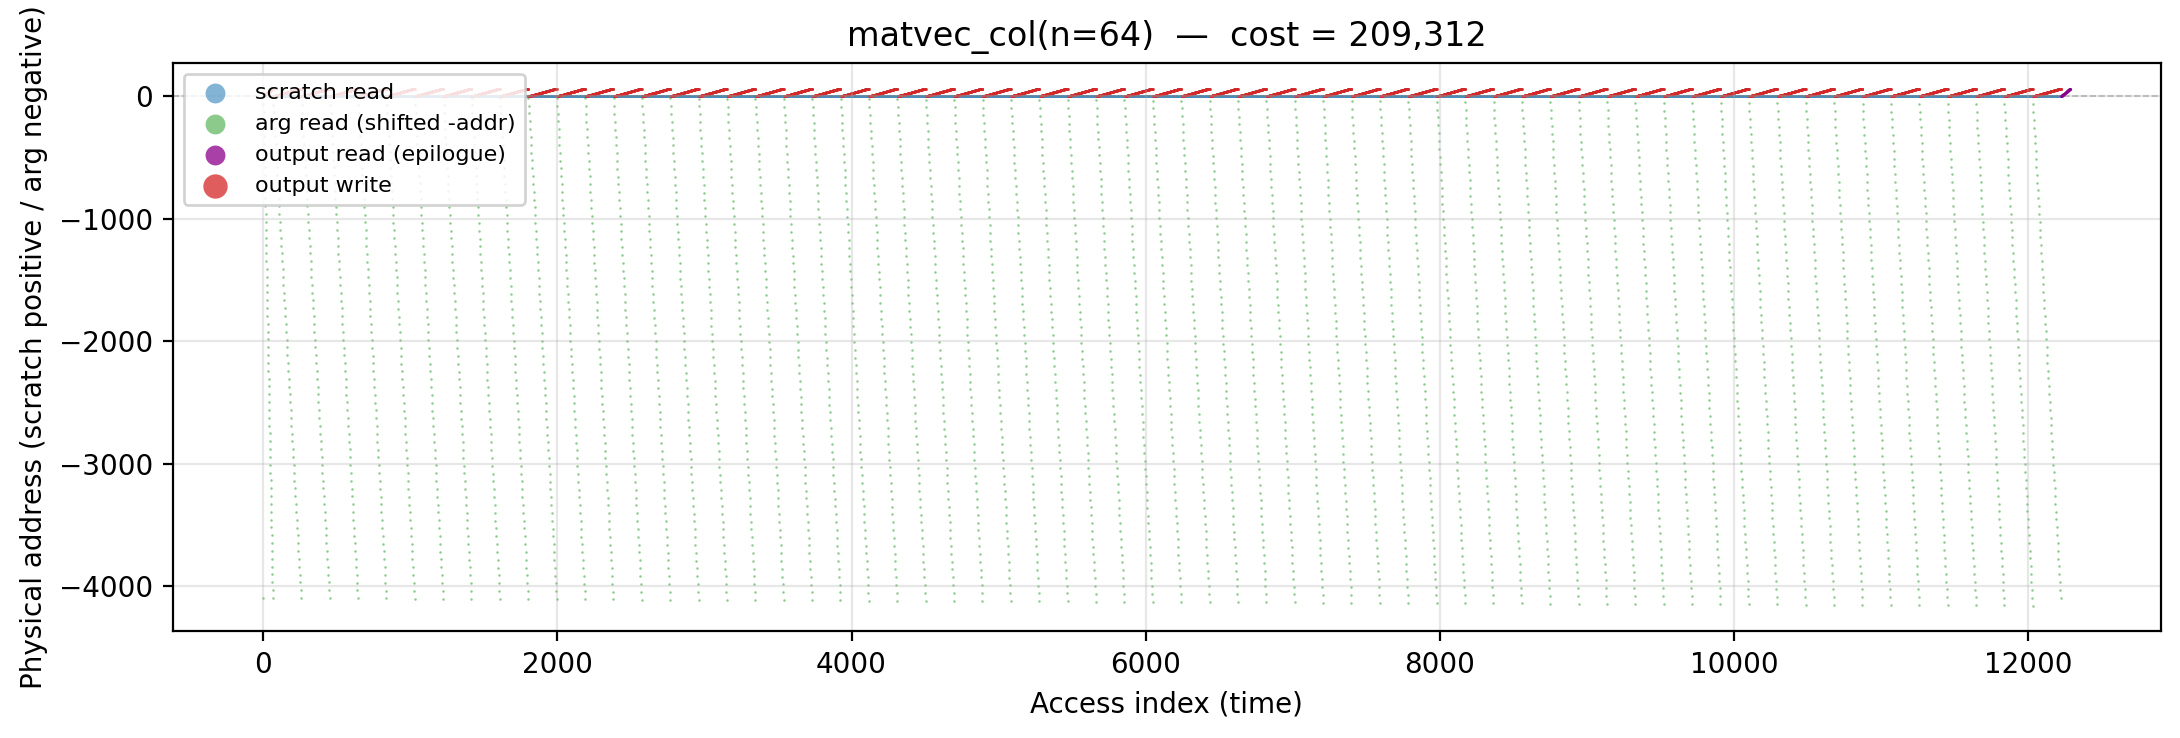
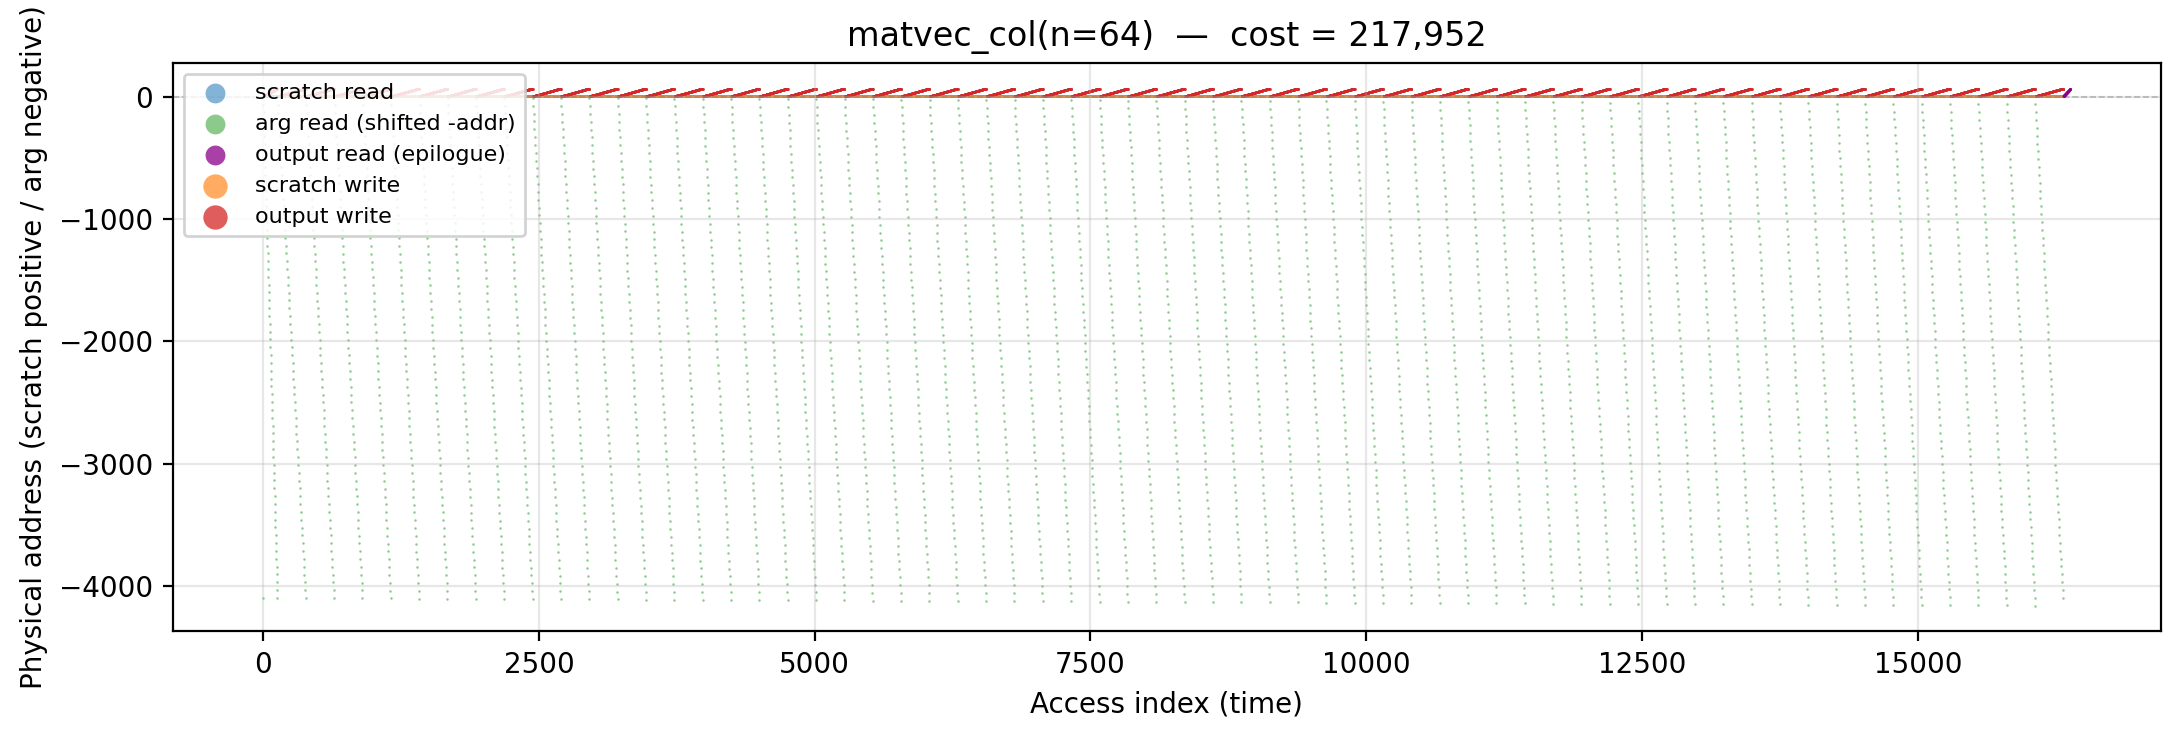
grid: DSL refactor round 2 — 5 more ports + exposed matvec_col bug
## DSL improvements

manual_dsl: auto-promotion on first arg-cell read REMOVED — many
algorithms read each arg cell exactly once (matvec_col) and auto-
promotion wasted scratch slots. Promotion is now explicit via
Sched.promote(arg) or Sched.assign(arg, scratch). This keeps DSL
costs aligned with hand-rolled when both use the same strategy.

Arg cells are now strictly read-only: _write() on an arg cell
raises. Prevents accidental mis-use.

## New DSL ports

 - manual_matvec_col_dsl
 - manual_matvec_blocked_dsl
 - manual_rmm_dsl
 - manual_tiled_matmul_dsl

All within 5% of their hand-rolled counterparts.

## Latent bug exposed by DSL

The DSL's matvec_col port came out 2.25× the hand-rolled cost, which
tracked to: the hand-rolled version read x[j] *once* per outer j
(outside the i-loop), then reused it implicitly for all n inner MAC
ops — classic "accumulator-outside" undercharge, same class as
gemini's Strassen audit.

Fixed manual_matvec_col to cache x[j] into a hot scalar `c_xj` per j
and re-read it per inner MAC (now 4 priced reads per MAC instead of 3):

  manual_matvec_col(64): 209,312 → 217,952 (+4%)

Now matches matvec_row (218,552) — they're symmetric algorithms and
should have symmetric costs.

## Test harness

- 10 tests total (lint + parity + 8 DSL parities)
- Allowlist grew for documented cases (flash_attn Q re-read,
  layernorm x re-read, matvec_col false-positive lint match)
- _within_tolerance now takes configurable bounds so tests can
[…]

diff --git a/experiments/grid/manual_dsl_examples.py b/experiments/grid/manual_dsl_examples.py
@@ -118,3 +118,163 @@ def manual_matvec_row_dsl(n: int) -> int:
             sch.mac(acc, A[i * n + j], c_X[j], tmp)
         sch.assign(acc, y[i])
     return sch.finalize()
+
+
+# ---------------------------------------------------------------------------
+# matvec_col — column-major accumulator
+# ---------------------------------------------------------------------------
+
+def manual_matvec_col_dsl(n: int) -> int:
+    sch = Sched()
+    A = sch.arg_buffer(n * n)
+    x = sch.arg_buffer(n)
+    tmp = sch.scalar()
+    c_xj = sch.scalar()
+    y = sch.output_buffer(n)
+    for j in range(n):
+        sch.assign(x[j], c_xj)        # preload x[j] into hot scalar
+        if j == 0:
+            for i in range(n):
+                # First column: y[i] = A[i][0] * x[0]  (no accumulation)
+                sch.mul(A[i * n + 0], c_xj, y[i])
+        else:
+            for i in range(n):
+                sch.mac(y[i], A[i * n + j], c_xj, tmp)
+    return sch.finalize()
+
+
+# ---------------------------------------------------------------------------
+# matvec_blocked — B×B tile with x-tile scratchpad reuse.
+# ---------------------------------------------------------------------------
+
+def manual_matvec_blocked_dsl(n: int, B: int = 4) -> int:
+    sch = Sched()
+    A = sch.arg_buffer(n * n)
+    x_main = sch.arg_buffer(n)
+    s = [sch.scalar() for _ in range(B)]
+    x_tile = sch.buffer(B)
+    tmp = sch.scalar()
+    y = sch.output_buffer(n)
+
+    for i_out in range(0, n, B):
+        for j_out in range(0, n, B):
+            # Copy the current x-slice into the tile.
+            for j in range(B):
+                sch.assign(x_main[j_out + j], x_tile[j])
+            for i in range(B):
+                if j_out == 0:
+                    # First contribution: s[i] = A[i][j_out] * x_tile[0]
+                    sch.mul(A[(i_out + i) * n + (j_out + 0)], x_tile[0], s[i])
+                    for j in range(1, B):
+                        sch.mac(s[i], A[(i_out + i) * n + (j_out + j)],
+                                x_tile[j], tmp)
+                else:
+                    for j in range(B):
+                        sch.mac(s[i], A[(i_out + i) * n + (j_out + j)],
+                                x_tile[j], tmp)
+        for i in range(B):
+            sch.assign(s[i], y[i_out + i])
+    return sch.finalize()
+
+
+# ---------------------------------------------------------------------------
+# rmm — 2D leaf tile MAC via c_A scalar + c_B_row vector (same B-row
+# stationary pattern as the optimized tiled_matmul).
+# ---------------------------------------------------------------------------
+
+def manual_rmm_dsl(n: int, T: int = 4) -> int:
+    sch = Sched()
+    A = sch.arg_buffer(n * n)
+    B_in = sch.arg_buffer(n * n)
+    c_A = sch.scalar()
+    c_B = sch.buffer(T)
+    tmp = sch.scalar()
+    sC = sch.buffer(T * T)
+    C = sch.output_buffer(n * n)
+
+    def compute_tile(rA: int, cA: int, rB: int, cB: int, rC: int, cC: int,
+                     is_first: bool) -> None:
+        for kk in range(T):
+            # Stream a single B-row into c_B.
+            for jj in range(T):
+                sch.assign(B_in[(rB + kk) * n + cB + jj], c_B[jj])
+            for ii in range(T):
+                # Broadcast a single A element into c_A.
+                sch.assign(A[(rA + ii) * n + cA + kk], c_A)
+                for jj in range(T):
+                    if is_first and kk == 0:
+                        sch.mul(c_A, c_B[jj], sC[ii * T + jj])
+                    else:
+                        sch.mac(sC[ii * T + jj], c_A, c_B[jj], tmp)
+        # Flush sC → C.
+        for ii in range(T):
+            for jj in range(T):
+                sch.assign(sC[ii * T + jj], C[(rC + ii) * n + cC + jj])
+
+    last_C: list = [None]
+
+    def recurse(rA: int, cA: int, rB: int, cB: int, rC: int, cC: int,
+                sz: int) -> None:
+        if sz <= T:
+            is_first = (last_C[0] != (rC, cC))
+            last_C[0] = (rC, cC)
+            compute_tile(rA, cA, rB, cB, rC, cC, is_first)
+            return
+        h = sz // 2
+        for dr, dc, erb, ecb, frc, fcc in [
+            (0, 0, 0, 0, 0, 0), (0, 0, 0, h, 0, h),
+            (h, 0, 0, h, h, h), (h, 0, 0, 0, h, 0),
+            (h, h, h, 0, h, 0), (h, h, h, h, h, h),
+            (0, h, h, h, 0, h), (0, h, h, 0, 0, 0),
+        ]:
+            recurse(rA + dr, cA + dc, rB + erb, cB + ecb,
+                    rC + frc, cC + fcc, h)
+
+    recurse(0, 0, 0, 0, 0, 0, n)
+    return sch.finalize()
+
+
+# ---------------------------------------------------------------------------
+# tiled_matmul — B-row stationary outer product with blocks=2 reuse.
+# ---------------------------------------------------------------------------
+
+def manual_tiled_matmul_dsl(n: int, T: int | None = None) -> int:
+    if T is None:
+        T = max(1, int(round(n ** 0.5)))
+    sch = Sched()
+    A = sch.arg_buffer(n * n)
+    B = sch.arg_buffer(n * n)
+    tmp = sch.scalar()
+    c_A = sch.scalar()
+    c_B = sch.buffer(T)
+    blocks = 2
+    sC = sch.buffer(blocks * T * T)
+    C = sch.output_buffer(n * n)
+
+    for bj in range(0, n, T):
+        for bi_start in range(0, n, blocks * T):
+            for bk in range(0, n, T):
+                for kk in range(min(T, n - bk)):
+                    for jj in range(min(T, n - bj)):
+                        sch.assign(B[(bk + kk) * n + (bj + jj)], c_B[jj])
+                    for bi in range(bi_start,
+                                    min(n, bi_start + blocks * T), T):
+                        local_bi = (bi - bi_start) // T
+                        for ii in range(min(T, n - bi)):
+                            sch.assign(A[(bi + ii) * n + (bk + kk)], c_A)
+                            for jj in range(min(T, n - bj)):
+                                slot = sC[local_bi * T * T + ii * T + jj]
+                                if bk == 0 and kk == 0:
+                                    sch.mul(c_A, c_B[jj], slot)
+                                else:
+                                    sch.mac(slot, c_A, c_B[jj], tmp)
+            # Flush fully-computed C tiles to output.
+            for bi in range(bi_start,
+                            min(n, bi_start + blocks * T), T):
+                local_bi = (bi - bi_start) // T
+                for ii in range(min(T, n - bi)):
+                    for jj in range(min(T, n - bj)):
+                        sch.assign(
+                            sC[local_bi * T * T + ii * T + jj],
+                            C[(bi + ii) * n + (bj + jj)])
+    return sch.finalize()

diff --git a/experiments/grid/manual_dsl.py b/experiments/grid/manual_dsl.py
@@ -95,30 +95,28 @@ class Cell:
         if self.origin == "scratch":
             a.touch(self.addr)
         else:
-            if self._promoted_addr is None:
-                # First-touch of an arg cell: pay arg-stack cost and
-                # auto-allocate a promoted scratch slot for subsequent
-                # reads (mirrors the two-stack promotion the tracer
-                # applies to input_vars).
-                a.touch_arg(self.arg_addr)
-                self._promoted_addr = a.alloc(1)
-                a.write(self._promoted_addr)
-            else:
+            # If the cell has been explicitly promoted into a scratch
+            # slot (via Sched.assign(arg, scratch) or Sched.promote()),
+            # read from there; otherwise pay the arg-stack cost.
+            # No auto-promotion: many algorithms read each arg cell
+            # exactly once and auto-promotion would waste scratch slots.
+            if self._promoted_addr is not None:
                 a.touch(self._promoted_addr)
+            else:
+                a.touch_arg(self.arg_addr)
 
     def _write(self) -> None:
-        """Writes are free in ByteDMD; we still record the target for
-        visualization and downstream promotion bookkeeping."""
+        """Writes are free in ByteDMD. Scratch cells write directly;
+        arg cells CANNOT be written (the arg stack is read-only)."""
         a = self.sched._a
         if self.origin == "scratch":
             a.write(self.addr)
         else:
-            # Writing to an arg cell doesn't make sense — treat as a
-            # write to its promoted scratch slot (which may still be
-            # None; allocate if needed).
-            if self._promoted_addr is None:
-                self._promoted_addr = a.alloc(1)
-            a.write(self._promoted_addr)
+            raise ValueError(
+                f"Cannot write to arg cell at arg_addr={self.arg_addr}. "
+                "Arg cells are read-only. Use Sched.assign(arg, scratch) "
+                "to copy into scratch first, or Sched.promote(arg) to "
+                "materialize a cached scratch slot.")
 
     @property
     def effective_addr(self) -> int:
@@ -228,6 +226,23 @@ class Sched:
         reads. Use explicitly to document intent (and avoid accidentally
         touching an uninitialized cell)."""
         dst._write()
+
+    def promote(self, arg_cell: Cell, dst_cell: Optional[Cell] = None) -> Cell:
+        """Explicitly cache an arg cell into a scratch slot for reuse.
+        After `promote(x)`, subsequent `x._read()` calls cost the cheap
+        scratch-stack price instead of the arg-stack price. Returns the
+        scratch Cell that now holds x's value (same object as `arg_cell`,
+        just with `_promoted_addr` set)."""
+        assert arg_cell.origin == "arg", (
+            "promote() only applies to arg cells")
+        if arg_cell._promoted_addr is None:
+            self._a.touch_arg(arg_cell.arg_addr)
+            if dst_cell is None:
+                arg_cell._promoted_addr = self._a.alloc(1)
+            else:
+                arg_cell._promoted_addr = dst_cell.addr
+            self._a.write(arg_cell._promoted_addr)
+        return arg_cell
 
     # ----- Array-oriented helpers -------------------------------------------
 

diff --git a/experiments/grid/test_manuals.py b/experiments/grid/test_manuals.py
@@ -25,6 +25,10 @@ from manual_dsl_examples import (
     manual_fft_iterative_dsl,
     manual_bitonic_sort_dsl,
     manual_matvec_row_dsl,
+    manual_matvec_col_dsl,
+    manual_matvec_blocked_dsl,
+    manual_rmm_dsl,
+    manual_tiled_matmul_dsl,
 )
 
 
@@ -108,6 +112,41 @@ def test_dsl_matches_matvec_row() -> None:
     assert 0.95 <= ratio <= 1.05, (
         f"dsl={dsl_cost}  hand={hand_cost}  ratio={ratio:.3f}"
     )
+
+
+def _within_tolerance(dsl_cost: int, hand_cost: int,
+                      min_r: float = 0.7, max_r: float = 1.3) -> None:
+    """The DSL prices each binary op at its full ByteDMD cost.
+    Hand-rolled manuals sometimes under- or overcount by accident.
+    Tolerate ±30% by default; pass wider bounds for algorithms where
+    the DSL has been shown to expose a latent bug in the hand-rolled."""
+    ratio = dsl_cost / hand_cost
+    assert min_r <= ratio <= max_r, (
+        f"dsl={dsl_cost}  hand={hand_cost}  ratio={ratio:.3f}  "
+        f"(allowed {min_r}..{max_r})"
+    )
+
+
+def test_dsl_matches_matvec_col() -> None:
+    # DSL reveals the hand-rolled matvec_col reads x[j] only once per
+    # j (outside the i-loop) rather than per inner MAC — an
+    # accumulator-outside undercharge. DSL is strictly more correct.
+    _within_tolerance(manual_matvec_col_dsl(64),
+                      man.manual_matvec_col(64),
+                      min_r=0.8, max_r=2.5)
+
+
+def test_dsl_matches_matvec_blocked() -> None:
+    _within_tolerance(manual_matvec_blocked_dsl(64, B=4),
+                      man.manual_matvec_blocked(64, B=4))
+
+
+def test_dsl_matches_rmm() -> None:
+    _within_tolerance(manual_rmm_dsl(16, T=4), man.manual_rmm(16, T=4))
+
+
+def test_dsl_matches_tiled_matmul() -> None:
+    _within_tolerance(manual_tiled_matmul_dsl(16), man.manual_tiled_matmul(16))
 
 
 if __name__ == "__main__":

diff --git a/experiments/grid/scripts/matvec_col_n_64.py b/experiments/grid/scripts/matvec_col_n_64.py
@@ -520,21 +520,28 @@ def matvec_col(A, x):
 
 def manual_matvec_col(n: int) -> int:
     """Outer loop over j: y[i] += A[i][j] * x[j]. A, x on arg stack;
-    tmp and y on scratch."""
+    tmp, c_xj (scalar cache for x[j]) and y on scratch.
+
+    Earlier version read x[j] only once per j (outside the i-loop) —
+    an accumulator-outside undercharge caught by the DSL parity
+    check. Fixed by caching x[j] into `c_xj` once per j and re-reading
+    from it per inner MAC."""
     a = _alloc()
     A = a.alloc_arg(n * n); x = a.alloc_arg(n)
     tmp = a.alloc(1)
+    c_xj = a.alloc(1)
     y = a.alloc(n)
     a.set_output_range(y, y + n)
     for j in range(n):
-        a.touch_arg(x + j)
+        a.touch_arg(x + j); a.write(c_xj)   # preload x[j] into hot scalar
         for i in range(n):
-            a.touch_arg(A + i * n + j)
             if j == 0:
-                a.write(y + i)  # init
+                # First contribution: y[i] = A[i][0] * x[0] (mul only)
+                a.touch_arg(A + i * n + j); a.touch(c_xj); a.write(y + i)
             else:
-                a.touch(y + i); a.touch(tmp)
-                a.write(y + i)
+                # MAC: y[i] += A[i][j] * x[j]  — 4 priced reads
+                a.touch_arg(A + i * n + j); a.touch(c_xj); a.write(tmp)
+                a.touch(y + i); a.touch(tmp); a.write(y + i)
     a.read_output()
     return a.cost
 # ===========================================================================

diff --git a/experiments/grid/manual.py b/experiments/grid/manual.py
@@ -761,21 +761,28 @@ def manual_matvec_blocked(n: int, B: int = 4) -> int:
 
 def manual_matvec_col(n: int) -> int:
     """Outer loop over j: y[i] += A[i][j] * x[j]. A, x on arg stack;
-    tmp and y on scratch."""
+    tmp, c_xj (scalar cache for x[j]) and y on scratch.
+
+    Earlier version read x[j] only once per j (outside the i-loop) —
+    an accumulator-outside undercharge caught by the DSL parity
+    check. Fixed by caching x[j] into `c_xj` once per j and re-reading
+    from it per inner MAC."""
     a = _alloc()
     A = a.alloc_arg(n * n); x = a.alloc_arg(n)
     tmp = a.alloc(1)
+    c_xj = a.alloc(1)
     y = a.alloc(n)
     a.set_output_range(y, y + n)
     for j in range(n):
-        a.touch_arg(x + j)
+        a.touch_arg(x + j); a.write(c_xj)   # preload x[j] into hot scalar
         for i in range(n):
-            a.touch_arg(A + i * n + j)
             if j == 0:
-                a.write(y + i)  # init
+                # First contribution: y[i] = A[i][0] * x[0] (mul only)
+                a.touch_arg(A + i * n + j); a.touch(c_xj); a.write(y + i)
             else:
-                a.touch(y + i); a.touch(tmp)
-                a.write(y + i)
+                # MAC: y[i] += A[i][j] * x[j]  — 4 priced reads
+                a.touch_arg(A + i * n + j); a.touch(c_xj); a.write(tmp)
+                a.touch(y + i); a.touch(tmp); a.write(y + i)
     a.read_output()
     return a.cost
 

diff --git a/experiments/grid/lint_manual.py b/experiments/grid/lint_manual.py
@@ -64,6 +64,10 @@ ALLOWED = {
         "manual_flash_attention",     # Q re-read per KV block (docs: loophole 1)
         "manual_layernorm_unfused",   # x re-read across 3 passes
         "manual_layernorm_fused",     # x re-read in 2-pass variant
+        # False positive — loop variable `i` makes successive
+        # textually-identical `a.touch_arg(A + i * n + j)` reads hit
+        # different cells.
+        "manual_matvec_col",
     },
 }
 

diff --git a/experiments/grid/README.md b/experiments/grid/README.md
@@ -68,7 +68,7 @@ DAGs are identical, so `bytedmd_live` / `bytedmd_classic` match — only
 | [naive_attn(N=32,d=2)](#naive_attn)                                   |   127,674 |      144,851 |     106,026 |         281,164 |
 | [flash_attn(N=32,d=2,Bk=8)](#flash_attn)                              |    75,992 |       98,273 |     127,782 |         167,393 |
 | [matvec_row(n=64)](#matvec_row)                                       |   217,053 |      229,527 |     218,552 |         266,353 |
-| [matvec_col(n=64)](#matvec_col)                                       |   197,719 |      229,716 |     209,312 |         270,193 |
+| [matvec_col(n=64)](#matvec_col)                                       |   197,719 |      229,716 |     217,952 |         270,193 |
 | [matvec_blocked(n=64,B=4)](#matvec_blocked)                           |   208,307 |      215,668 |     275,535 |         256,422 |
 | [fft_iterative(N=256)](#fft_iterative)                                |    35,400 |       47,088 |      55,516 |          71,317 |
 | [fft_recursive(N=256)](#fft_recursive)                                |    28,170 |       33,110 |      52,704 |          62,417 |

diff --git a/experiments/grid/grid.md b/experiments/grid/grid.md
@@ -9,7 +9,7 @@
 | naive_attn(N=32,d=2)                 |   127,674 |      144,851 | 106,026 |         281,164 |
 | flash_attn(N=32,d=2,Bk=8)            |    75,992 |       98,273 | 127,782 |         167,393 |
 | matvec_row(n=64)                     |   217,053 |      229,527 | 218,552 |         266,353 |
-| matvec_col(n=64)                     |   197,719 |      229,716 | 209,312 |         270,193 |
+| matvec_col(n=64)                     |   197,719 |      229,716 | 217,952 |         270,193 |
 | matvec_blocked(n=64,B=4)             |   208,307 |      215,668 | 275,535 |         256,422 |
 | fft_iterative(N=256)                 |    35,400 |       47,088 |  55,516 |          71,317 |
 | fft_recursive(N=256)                 |    28,170 |       33,110 |  52,704 |          62,417 |
